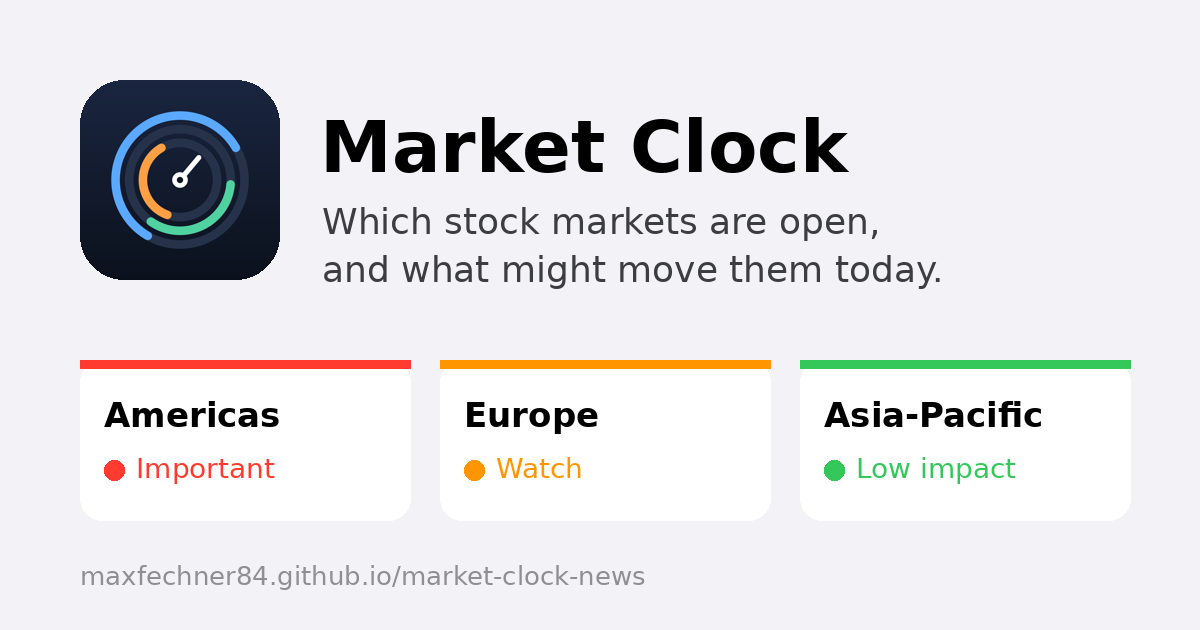
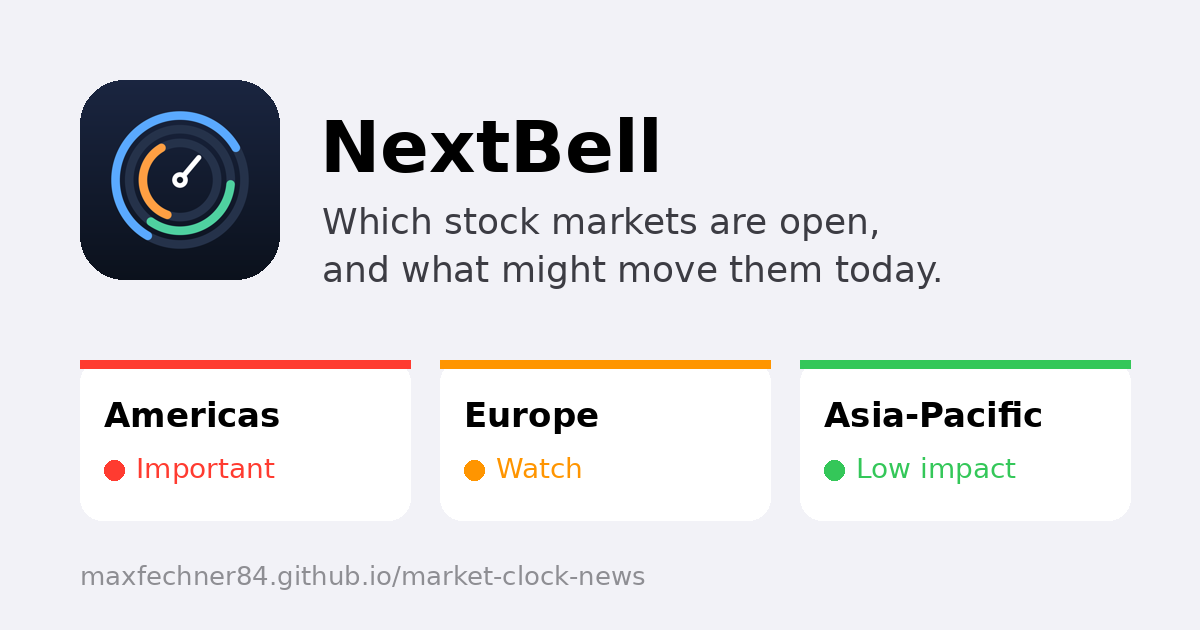
Rename site to NextBell
Claude-Session: https://claude.ai/code/session_01S3Vu1Jfy3DDBFWdjwpbPo2

Changed region(s): [[0.2775, 0.181, 0.7092, 0.2714]]

diff --git a/markets/hkex-fr.html b/markets/hkex-fr.html
@@ -3,7 +3,7 @@
 <head>
 <meta charset="utf-8">
 <meta name="viewport" content="width=device-width,initial-scale=1,viewport-fit=cover">
-<title>HKEX ouverte aujourd&#x27;hui ? Horaires Hong Kong en heure de Paris | Market Clock</title>
+<title>HKEX ouverte aujourd&#x27;hui ? Horaires Hong Kong en heure de Paris | NextBell</title>
 <meta name="description" content="Horaires d&#x27;ouverture de la Bourse de Hong Kong (HKEX) (Hong Kong), en heure locale et dans votre fuseau, statut en direct et jours de fermeture 2026–2027.">
 <meta name="color-scheme" content="light dark">
 <link rel="canonical" href="https://maxfechner84.github.io/market-clock-news/markets/hkex-fr.html">
@@ -165,7 +165,7 @@ p { margin: 0; }
     <table><thead><tr><th>Date</th><th>Motif</th><th>Séance</th></tr></thead><tbody id="rows"><tr data-d="2026-12-24"><td>jeudi 24 décembre 2026</td><td>Christmas Eve</td><td>Clôture à 12:00</td></tr><tr data-d="2026-12-25"><td>vendredi 25 décembre 2026</td><td>Christmas Day</td><td>Fermé</td></tr><tr data-d="2026-12-31"><td>jeudi 31 décembre 2026</td><td>New Year&#x27;s Eve</td><td>Clôture à 12:00</td></tr><tr data-d="2027-01-01"><td>vendredi 1 janvier 2027</td><td>New Year&#x27;s Day</td><td>Fermé</td></tr><tr data-d="2027-02-05"><td>vendredi 5 février 2027</td><td>Lunar New Year&#x27;s Eve</td><td>Clôture à 12:00</td></tr><tr data-d="2027-02-08"><td>lundi 8 février 2027</td><td>Lunar New Year</td><td>Fermé</td></tr><tr data-d="2027-02-09"><td>mardi 9 février 2027</td><td>Lunar New Year</td><td>Fermé</td></tr><tr data-d="2027-03-26"><td>vendredi 26 mars 2027</td><td>Good Friday</td><td>Fermé</td></tr><tr data-d="2027-03-29"><td>lundi 29 mars 2027</td><td>Easter Monday</td><td>Fermé</td></tr><tr data-d="2027-04-05"><td>lundi 5 avril 2027</td><td>Ching Ming Festival</td><td>Fermé</td></tr><tr data-d="2027-05-13"><td>jeudi 13 mai 2027</td><td>Buddha&#x27;s Birthday</td><td>Fermé</td></tr><tr data-d="2027-06-09"><td>mercredi 9 juin 2027</td><td>Tuen Ng Festival</td><td>Fermé</td></tr><tr data-d="2027-07-01"><td>jeudi 1 juillet 2027</td><td>HKSAR Establishment Day</td><td>Fermé</td></tr><tr data-d="2027-09-16"><td>jeudi 16 septembre 2027</td><td>Day after Mid-Autumn</td><td>Fermé</td></tr><tr data-d="2027-10-01"><td>vendredi 1 octobre 2027</td><td>National Day</td><td>Fermé</td></tr><tr data-d="2027-10-08"><td>vendredi 8 octobre 2027</td><td>Chung Yeung Festival</td><td>Fermé</td></tr><tr data-d="2027-12-24"><td>vendredi 24 décembre 2027</td><td>Christmas Eve</td><td>Clôture à 12:00</td></tr><tr data-d="2027-12-27"><td>lundi 27 décembre 2027</td><td>First weekday after Christmas</td><td>Fermé</td></tr><tr data-d="2027-12-31"><td>vendredi 31 décembre 2027</td><td>New Year&#x27;s Eve</td><td>Clôture à 12:00</td></tr></tbody></table>
   </div>
   <div class="card pad"><h3>À quelle heure ouvre la Bourse de Hong Kong (HKEX) ?</h3><p>À 09:30, heure locale (Asia/Hong Kong). L&#x27;heure dans votre fuseau est indiquée ci-dessus.</p><h3>Est-elle ouverte le week-end ?</h3><p>Non, elle est fermée le samedi et le dimanche.</p><h3>Les horaires changent-ils avec l&#x27;heure d&#x27;été ?</h3><p>Les horaires locaux restent les mêmes, mais l&#x27;écart avec votre heure peut changer quand l&#x27;un des deux pays change d&#x27;heure. Cette page en tient compte automatiquement.</p></div>
-  <div class="crumbs"><a href="../">Horloge des marchés en direct →</a></div>
+  <div class="crumbs"><a href="../">NextBell : le minuteur des marchés en direct →</a></div>
 </div>
 <script>
 (function () {

diff --git a/markets/tse-fr.html b/markets/tse-fr.html
@@ -3,7 +3,7 @@
 <head>
 <meta charset="utf-8">
 <meta name="viewport" content="width=device-width,initial-scale=1,viewport-fit=cover">
-<title>TSE ouverte aujourd&#x27;hui ? Horaires Tokyo en heure de Paris | Market Clock</title>
+<title>TSE ouverte aujourd&#x27;hui ? Horaires Tokyo en heure de Paris | NextBell</title>
 <meta name="description" content="Horaires d&#x27;ouverture de la Bourse de Tokyo (TSE) (Tokyo), en heure locale et dans votre fuseau, statut en direct et jours de fermeture 2026–2027.">
 <meta name="color-scheme" content="light dark">
 <link rel="canonical" href="https://maxfechner84.github.io/market-clock-news/markets/tse-fr.html">
@@ -165,7 +165,7 @@ p { margin: 0; }
     <table><thead><tr><th>Date</th><th>Motif</th><th>Séance</th></tr></thead><tbody id="rows"><tr data-d="2026-11-23"><td>lundi 23 novembre 2026</td><td>Labor Thanksgiving Day</td><td>Fermé</td></tr><tr data-d="2026-12-31"><td>jeudi 31 décembre 2026</td><td>Year-end holiday</td><td>Fermé</td></tr><tr data-d="2027-01-01"><td>vendredi 1 janvier 2027</td><td>New Year&#x27;s Day</td><td>Fermé</td></tr><tr data-d="2027-01-11"><td>lundi 11 janvier 2027</td><td>Coming of Age Day</td><td>Fermé</td></tr><tr data-d="2027-02-11"><td>jeudi 11 février 2027</td><td>National Foundation Day</td><td>Fermé</td></tr><tr data-d="2027-02-23"><td>mardi 23 février 2027</td><td>Emperor&#x27;s Birthday</td><td>Fermé</td></tr><tr data-d="2027-03-22"><td>lundi 22 mars 2027</td><td>Vernal Equinox (observed)</td><td>Fermé</td></tr><tr data-d="2027-04-29"><td>jeudi 29 avril 2027</td><td>Showa Day</td><td>Fermé</td></tr><tr data-d="2027-05-03"><td>lundi 3 mai 2027</td><td>Constitution Memorial Day</td><td>Fermé</td></tr><tr data-d="2027-05-04"><td>mardi 4 mai 2027</td><td>Greenery Day</td><td>Fermé</td></tr><tr data-d="2027-05-05"><td>mercredi 5 mai 2027</td><td>Children&#x27;s Day</td><td>Fermé</td></tr><tr data-d="2027-07-19"><td>lundi 19 juillet 2027</td><td>Marine Day</td><td>Fermé</td></tr><tr data-d="2027-08-11"><td>mercredi 11 août 2027</td><td>Mountain Day</td><td>Fermé</td></tr><tr data-d="2027-09-20"><td>lundi 20 septembre 2027</td><td>Respect for the Aged Day</td><td>Fermé</td></tr><tr data-d="2027-09-23"><td>jeudi 23 septembre 2027</td><td>Autumnal Equinox Day</td><td>Fermé</td></tr><tr data-d="2027-10-11"><td>lundi 11 octobre 2027</td><td>Sports Day</td><td>Fermé</td></tr><tr data-d="2027-11-03"><td>mercredi 3 novembre 2027</td><td>Culture Day</td><td>Fermé</td></tr><tr data-d="2027-11-23"><td>mardi 23 novembre 2027</td><td>Labor Thanksgiving Day</td><td>Fermé</td></tr><tr data-d="2027-12-31"><td>vendredi 31 décembre 2027</td><td>Year-end holiday</td><td>Fermé</td></tr><tr data-d="2028-01-03"><td>lundi 3 janvier 2028</td><td>New Year holiday</td><td>Fermé</td></tr></tbody></table>
   </div>
   <div class="card pad"><h3>À quelle heure ouvre la Bourse de Tokyo (TSE) ?</h3><p>À 09:00, heure locale (Asia/Tokyo). L&#x27;heure dans votre fuseau est indiquée ci-dessus.</p><h3>Est-elle ouverte le week-end ?</h3><p>Non, elle est fermée le samedi et le dimanche.</p><h3>Les horaires changent-ils avec l&#x27;heure d&#x27;été ?</h3><p>Les horaires locaux restent les mêmes, mais l&#x27;écart avec votre heure peut changer quand l&#x27;un des deux pays change d&#x27;heure. Cette page en tient compte automatiquement.</p></div>
-  <div class="crumbs"><a href="../">Horloge des marchés en direct →</a></div>
+  <div class="crumbs"><a href="../">NextBell : le minuteur des marchés en direct →</a></div>
 </div>
 <script>
 (function () {

diff --git a/markets/tse.html b/markets/tse.html
@@ -3,7 +3,7 @@
 <head>
 <meta charset="utf-8">
 <meta name="viewport" content="width=device-width,initial-scale=1,viewport-fit=cover">
-<title>Is the TSE open today? Tokyo hours &amp; holidays | Market Clock</title>
+<title>Is the TSE open today? Tokyo hours &amp; holidays | NextBell</title>
 <meta name="description" content="Tokyo Stock Exchange (Tokyo) trading hours in local time and your time zone, live open/closed status, and 2026–2027 holidays and early closes.">
 <meta name="color-scheme" content="light dark">
 <link rel="canonical" href="https://maxfechner84.github.io/market-clock-news/markets/tse.html">
@@ -165,7 +165,7 @@ p { margin: 0; }
     <table><thead><tr><th>Date</th><th>Holiday</th><th>Session</th></tr></thead><tbody id="rows"><tr data-d="2026-11-23"><td>Monday 23 November 2026</td><td>Labor Thanksgiving Day</td><td>Closed</td></tr><tr data-d="2026-12-31"><td>Thursday 31 December 2026</td><td>Year-end holiday</td><td>Closed</td></tr><tr data-d="2027-01-01"><td>Friday 1 January 2027</td><td>New Year&#x27;s Day</td><td>Closed</td></tr><tr data-d="2027-01-11"><td>Monday 11 January 2027</td><td>Coming of Age Day</td><td>Closed</td></tr><tr data-d="2027-02-11"><td>Thursday 11 February 2027</td><td>National Foundation Day</td><td>Closed</td></tr><tr data-d="2027-02-23"><td>Tuesday 23 February 2027</td><td>Emperor&#x27;s Birthday</td><td>Closed</td></tr><tr data-d="2027-03-22"><td>Monday 22 March 2027</td><td>Vernal Equinox (observed)</td><td>Closed</td></tr><tr data-d="2027-04-29"><td>Thursday 29 April 2027</td><td>Showa Day</td><td>Closed</td></tr><tr data-d="2027-05-03"><td>Monday 3 May 2027</td><td>Constitution Memorial Day</td><td>Closed</td></tr><tr data-d="2027-05-04"><td>Tuesday 4 May 2027</td><td>Greenery Day</td><td>Closed</td></tr><tr data-d="2027-05-05"><td>Wednesday 5 May 2027</td><td>Children&#x27;s Day</td><td>Closed</td></tr><tr data-d="2027-07-19"><td>Monday 19 July 2027</td><td>Marine Day</td><td>Closed</td></tr><tr data-d="2027-08-11"><td>Wednesday 11 August 2027</td><td>Mountain Day</td><td>Closed</td></tr><tr data-d="2027-09-20"><td>Monday 20 September 2027</td><td>Respect for the Aged Day</td><td>Closed</td></tr><tr data-d="2027-09-23"><td>Thursday 23 September 2027</td><td>Autumnal Equinox Day</td><td>Closed</td></tr><tr data-d="2027-10-11"><td>Monday 11 October 2027</td><td>Sports Day</td><td>Closed</td></tr><tr data-d="2027-11-03"><td>Wednesday 3 November 2027</td><td>Culture Day</td><td>Closed</td></tr><tr data-d="2027-11-23"><td>Tuesday 23 November 2027</td><td>Labor Thanksgiving Day</td><td>Closed</td></tr><tr data-d="2027-12-31"><td>Friday 31 December 2027</td><td>Year-end holiday</td><td>Closed</td></tr><tr data-d="2028-01-03"><td>Monday 3 January 2028</td><td>New Year holiday</td><td>Closed</td></tr></tbody></table>
   </div>
   <div class="card pad"><h3>What time does the TSE open?</h3><p>At 09:00 local time (Asia/Tokyo). The time in your own time zone is shown above.</p><h3>Is it open at weekends?</h3><p>No, it is closed on Saturdays and Sundays.</p><h3>Do the hours change with daylight saving time?</h3><p>The local hours stay the same, but the gap to your time can change when either country changes its clocks. This page adjusts automatically.</p></div>
-  <div class="crumbs"><a href="../">Live market clock →</a></div>
+  <div class="crumbs"><a href="../">NextBell: live market timer →</a></div>
 </div>
 <script>
 (function () {

diff --git a/index.html b/index.html
@@ -3,7 +3,7 @@
 <head>
 <meta charset="utf-8">
 <meta name="viewport" content="width=device-width,initial-scale=1,viewport-fit=cover">
-<title>Market Clock – world stock markets & what might move them today</title>
+<title>NextBell – world market timer & what might move markets today</title>
 <meta name="description" content="Live open/close countdowns for 11 world stock exchanges, with a twice-daily colour-coded summary of market-moving news by region. Free, in English and French.">
 <meta name="color-scheme" content="light dark">
 <meta name="theme-color" content="#f2f2f7" media="(prefers-color-scheme: light)">
@@ -14,9 +14,9 @@
 <link rel="icon" href="icon-192.png">
 <link rel="apple-touch-icon" href="icon.png">
 <meta name="apple-mobile-web-app-capable" content="yes">
-<meta name="apple-mobile-web-app-title" content="Market Clock">
+<meta name="apple-mobile-web-app-title" content="NextBell">
 <meta name="apple-mobile-web-app-status-bar-style" content="default">
-<meta property="og:title" content="Market Clock – which stock markets are open, and what might move them today">
+<meta property="og:title" content="NextBell – which stock markets are open, and what might move them today">
 <meta property="og:description" content="Live countdowns for 11 world exchanges plus a colour-coded summary of today's market-moving news.">
 <meta property="og:image" content="https://maxfechner84.github.io/market-clock-news/og.png">
 <meta property="og:url" content="https://maxfechner84.github.io/market-clock-news/">
@@ -147,7 +147,7 @@ h1 { white-space: nowrap; }
 <body>
 <div class="wrap">
   <div class="top">
-    <h1>Market Clock</h1>
+    <h1>NextBell</h1>
     <div class="tools">
       <span class="now num" id="now">--:--:--</span>
       <div class="seg lang" role="group" aria-label="Language">
@@ -604,7 +604,7 @@ h1 { white-space: nowrap; }
     var g = c.getContext("2d"), F = '-apple-system, BlinkMacSystemFont, "Helvetica Neue", Arial, sans-serif';
     var col = { green: "#34c759", orange: "#ff9500", red: "#ff3b30" };
     g.fillStyle = "#f2f2f7"; g.fillRect(0, 0, W, H);
-    g.fillStyle = "#000"; g.font = "700 52px " + F; g.fillText("Market Clock", 48, 92);
+    g.fillStyle = "#000"; g.font = "700 52px " + F; g.fillText("NextBell", 48, 92);
     g.fillStyle = "rgba(60,60,67,.6)"; g.font = "500 26px " + F;
     g.fillText(t("shareTitle") + " · " + new Date().toLocaleDateString(lang === "fr" ? "fr-FR" : "en-GB", { weekday: "long", day: "numeric", month: "long" }), 48, 134);
     var cw = (W - 48 * 2 - 24 * 2) / 3;
@@ -626,7 +626,7 @@ h1 { white-space: nowrap; }
   document.getElementById("shareBtn").addEventListener("click", function () {
     makeImage().toBlob(function (blob) {
       var file = new File([blob], "market-clock-" + new Date().toISOString().slice(0, 10) + ".png", { type: "image/png" });
-      var data = { files: [file], title: "Market Clock", text: t("shareTitle") + " – https://maxfechner84.github.io/market-clock-news/" };
+      var data = { files: [file], title: "NextBell", text: t("shareTitle") + " – https://maxfechner84.github.io/market-clock-news/" };
       if (navigator.canShare && navigator.canShare(data)) { navigator.share(data).catch(function () {}); return; }
       var a = document.createElement("a"); a.href = URL.createObjectURL(blob); a.download = file.name; document.body.appendChild(a); a.click(); a.remove();
     }, "image/png");

diff --git a/markets/hkex.html b/markets/hkex.html
@@ -3,7 +3,7 @@
 <head>
 <meta charset="utf-8">
 <meta name="viewport" content="width=device-width,initial-scale=1,viewport-fit=cover">
-<title>Is the HKEX open today? Hong Kong hours &amp; holidays | Market Clock</title>
+<title>Is the HKEX open today? Hong Kong hours &amp; holidays | NextBell</title>
 <meta name="description" content="Hong Kong Stock Exchange (Hong Kong) trading hours in local time and your time zone, live open/closed status, and 2026–2027 holidays and early closes.">
 <meta name="color-scheme" content="light dark">
 <link rel="canonical" href="https://maxfechner84.github.io/market-clock-news/markets/hkex.html">
@@ -165,7 +165,7 @@ p { margin: 0; }
     <table><thead><tr><th>Date</th><th>Holiday</th><th>Session</th></tr></thead><tbody id="rows"><tr data-d="2026-12-24"><td>Thursday 24 December 2026</td><td>Christmas Eve</td><td>Closes at 12:00</td></tr><tr data-d="2026-12-25"><td>Friday 25 December 2026</td><td>Christmas Day</td><td>Closed</td></tr><tr data-d="2026-12-31"><td>Thursday 31 December 2026</td><td>New Year&#x27;s Eve</td><td>Closes at 12:00</td></tr><tr data-d="2027-01-01"><td>Friday 1 January 2027</td><td>New Year&#x27;s Day</td><td>Closed</td></tr><tr data-d="2027-02-05"><td>Friday 5 February 2027</td><td>Lunar New Year&#x27;s Eve</td><td>Closes at 12:00</td></tr><tr data-d="2027-02-08"><td>Monday 8 February 2027</td><td>Lunar New Year</td><td>Closed</td></tr><tr data-d="2027-02-09"><td>Tuesday 9 February 2027</td><td>Lunar New Year</td><td>Closed</td></tr><tr data-d="2027-03-26"><td>Friday 26 March 2027</td><td>Good Friday</td><td>Closed</td></tr><tr data-d="2027-03-29"><td>Monday 29 March 2027</td><td>Easter Monday</td><td>Closed</td></tr><tr data-d="2027-04-05"><td>Monday 5 April 2027</td><td>Ching Ming Festival</td><td>Closed</td></tr><tr data-d="2027-05-13"><td>Thursday 13 May 2027</td><td>Buddha&#x27;s Birthday</td><td>Closed</td></tr><tr data-d="2027-06-09"><td>Wednesday 9 June 2027</td><td>Tuen Ng Festival</td><td>Closed</td></tr><tr data-d="2027-07-01"><td>Thursday 1 July 2027</td><td>HKSAR Establishment Day</td><td>Closed</td></tr><tr data-d="2027-09-16"><td>Thursday 16 September 2027</td><td>Day after Mid-Autumn</td><td>Closed</td></tr><tr data-d="2027-10-01"><td>Friday 1 October 2027</td><td>National Day</td><td>Closed</td></tr><tr data-d="2027-10-08"><td>Friday 8 October 2027</td><td>Chung Yeung Festival</td><td>Closed</td></tr><tr data-d="2027-12-24"><td>Friday 24 December 2027</td><td>Christmas Eve</td><td>Closes at 12:00</td></tr><tr data-d="2027-12-27"><td>Monday 27 December 2027</td><td>First weekday after Christmas</td><td>Closed</td></tr><tr data-d="2027-12-31"><td>Friday 31 December 2027</td><td>New Year&#x27;s Eve</td><td>Closes at 12:00</td></tr></tbody></table>
   </div>
   <div class="card pad"><h3>What time does the HKEX open?</h3><p>At 09:30 local time (Asia/Hong Kong). The time in your own time zone is shown above.</p><h3>Is it open at weekends?</h3><p>No, it is closed on Saturdays and Sundays.</p><h3>Do the hours change with daylight saving time?</h3><p>The local hours stay the same, but the gap to your time can change when either country changes its clocks. This page adjusts automatically.</p></div>
-  <div class="crumbs"><a href="../">Live market clock →</a></div>
+  <div class="crumbs"><a href="../">NextBell: live market timer →</a></div>
 </div>
 <script>
 (function () {

diff --git a/markets/sse-fr.html b/markets/sse-fr.html
@@ -3,7 +3,7 @@
 <head>
 <meta charset="utf-8">
 <meta name="viewport" content="width=device-width,initial-scale=1,viewport-fit=cover">
-<title>SSE ouverte aujourd&#x27;hui ? Horaires Shanghai en heure de Paris | Market Clock</title>
+<title>SSE ouverte aujourd&#x27;hui ? Horaires Shanghai en heure de Paris | NextBell</title>
 <meta name="description" content="Horaires d&#x27;ouverture de la Bourse de Shanghai (SSE) (Shanghai), en heure locale et dans votre fuseau, statut en direct et jours de fermeture 2026–2027.">
 <meta name="color-scheme" content="light dark">
 <link rel="canonical" href="https://maxfechner84.github.io/market-clock-news/markets/sse-fr.html">
@@ -165,7 +165,7 @@ p { margin: 0; }
     <table><thead><tr><th>Date</th><th>Motif</th><th>Séance</th></tr></thead><tbody id="rows"><tr data-d="2027-01-01"><td>vendredi 1 janvier 2027</td><td>New Year&#x27;s Day</td><td>Fermé</td></tr><tr data-d="2027-02-05"><td>vendredi 5 février 2027</td><td>Spring Festival</td><td>Fermé</td></tr><tr data-d="2027-02-08"><td>lundi 8 février 2027</td><td>Spring Festival</td><td>Fermé</td></tr><tr data-d="2027-02-09"><td>mardi 9 février 2027</td><td>Spring Festival</td><td>Fermé</td></tr><tr data-d="2027-02-10"><td>mercredi 10 février 2027</td><td>Spring Festival</td><td>Fermé</td></tr><tr data-d="2027-02-11"><td>jeudi 11 février 2027</td><td>Spring Festival</td><td>Fermé</td></tr><tr data-d="2027-02-12"><td>vendredi 12 février 2027</td><td>Spring Festival</td><td>Fermé</td></tr><tr data-d="2027-04-05"><td>lundi 5 avril 2027</td><td>Qingming Festival</td><td>Fermé</td></tr><tr data-d="2027-05-03"><td>lundi 3 mai 2027</td><td>Labour Day</td><td>Fermé</td></tr><tr data-d="2027-05-04"><td>mardi 4 mai 2027</td><td>Labour Day</td><td>Fermé</td></tr><tr data-d="2027-05-05"><td>mercredi 5 mai 2027</td><td>Labour Day</td><td>Fermé</td></tr><tr data-d="2027-06-09"><td>mercredi 9 juin 2027</td><td>Dragon Boat Festival</td><td>Fermé</td></tr><tr data-d="2027-09-15"><td>mercredi 15 septembre 2027</td><td>Mid-Autumn Festival</td><td>Fermé</td></tr><tr data-d="2027-10-01"><td>vendredi 1 octobre 2027</td><td>National Day</td><td>Fermé</td></tr><tr data-d="2027-10-04"><td>lundi 4 octobre 2027</td><td>National Day</td><td>Fermé</td></tr><tr data-d="2027-10-05"><td>mardi 5 octobre 2027</td><td>National Day</td><td>Fermé</td></tr><tr data-d="2027-10-06"><td>mercredi 6 octobre 2027</td><td>National Day</td><td>Fermé</td></tr><tr data-d="2027-10-07"><td>jeudi 7 octobre 2027</td><td>National Day</td><td>Fermé</td></tr></tbody></table>
   </div>
   <div class="card pad"><h3>À quelle heure ouvre la Bourse de Shanghai (SSE) ?</h3><p>À 09:30, heure locale (Asia/Shanghai). L&#x27;heure dans votre fuseau est indiquée ci-dessus.</p><h3>Est-elle ouverte le week-end ?</h3><p>Non, elle est fermée le samedi et le dimanche.</p><h3>Les horaires changent-ils avec l&#x27;heure d&#x27;été ?</h3><p>Les horaires locaux restent les mêmes, mais l&#x27;écart avec votre heure peut changer quand l&#x27;un des deux pays change d&#x27;heure. Cette page en tient compte automatiquement.</p></div>
-  <div class="crumbs"><a href="../">Horloge des marchés en direct →</a></div>
+  <div class="crumbs"><a href="../">NextBell : le minuteur des marchés en direct →</a></div>
 </div>
 <script>
 (function () {

diff --git a/markets/sse.html b/markets/sse.html
@@ -3,7 +3,7 @@
 <head>
 <meta charset="utf-8">
 <meta name="viewport" content="width=device-width,initial-scale=1,viewport-fit=cover">
-<title>Is the SSE open today? Shanghai hours &amp; holidays | Market Clock</title>
+<title>Is the SSE open today? Shanghai hours &amp; holidays | NextBell</title>
 <meta name="description" content="Shanghai Stock Exchange (Shanghai) trading hours in local time and your time zone, live open/closed status, and 2026–2027 holidays and early closes.">
 <meta name="color-scheme" content="light dark">
 <link rel="canonical" href="https://maxfechner84.github.io/market-clock-news/markets/sse.html">
@@ -165,7 +165,7 @@ p { margin: 0; }
     <table><thead><tr><th>Date</th><th>Holiday</th><th>Session</th></tr></thead><tbody id="rows"><tr data-d="2027-01-01"><td>Friday 1 January 2027</td><td>New Year&#x27;s Day</td><td>Closed</td></tr><tr data-d="2027-02-05"><td>Friday 5 February 2027</td><td>Spring Festival</td><td>Closed</td></tr><tr data-d="2027-02-08"><td>Monday 8 February 2027</td><td>Spring Festival</td><td>Closed</td></tr><tr data-d="2027-02-09"><td>Tuesday 9 February 2027</td><td>Spring Festival</td><td>Closed</td></tr><tr data-d="2027-02-10"><td>Wednesday 10 February 2027</td><td>Spring Festival</td><td>Closed</td></tr><tr data-d="2027-02-11"><td>Thursday 11 February 2027</td><td>Spring Festival</td><td>Closed</td></tr><tr data-d="2027-02-12"><td>Friday 12 February 2027</td><td>Spring Festival</td><td>Closed</td></tr><tr data-d="2027-04-05"><td>Monday 5 April 2027</td><td>Qingming Festival</td><td>Closed</td></tr><tr data-d="2027-05-03"><td>Monday 3 May 2027</td><td>Labour Day</td><td>Closed</td></tr><tr data-d="2027-05-04"><td>Tuesday 4 May 2027</td><td>Labour Day</td><td>Closed</td></tr><tr data-d="2027-05-05"><td>Wednesday 5 May 2027</td><td>Labour Day</td><td>Closed</td></tr><tr data-d="2027-06-09"><td>Wednesday 9 June 2027</td><td>Dragon Boat Festival</td><td>Closed</td></tr><tr data-d="2027-09-15"><td>Wednesday 15 September 2027</td><td>Mid-Autumn Festival</td><td>Closed</td></tr><tr data-d="2027-10-01"><td>Friday 1 October 2027</td><td>National Day</td><td>Closed</td></tr><tr data-d="2027-10-04"><td>Monday 4 October 2027</td><td>National Day</td><td>Closed</td></tr><tr data-d="2027-10-05"><td>Tuesday 5 October 2027</td><td>National Day</td><td>Closed</td></tr><tr data-d="2027-10-06"><td>Wednesday 6 October 2027</td><td>National Day</td><td>Closed</td></tr><tr data-d="2027-10-07"><td>Thursday 7 October 2027</td><td>National Day</td><td>Closed</td></tr></tbody></table>
   </div>
   <div class="card pad"><h3>What time does the SSE open?</h3><p>At 09:30 local time (Asia/Shanghai). The time in your own time zone is shown above.</p><h3>Is it open at weekends?</h3><p>No, it is closed on Saturdays and Sundays.</p><h3>Do the hours change with daylight saving time?</h3><p>The local hours stay the same, but the gap to your time can change when either country changes its clocks. This page adjusts automatically.</p></div>
-  <div class="crumbs"><a href="../">Live market clock →</a></div>
+  <div class="crumbs"><a href="../">NextBell: live market timer →</a></div>
 </div>
 <script>
 (function () {

diff --git a/markets/nyse-fr.html b/markets/nyse-fr.html
@@ -3,7 +3,7 @@
 <head>
 <meta charset="utf-8">
 <meta name="viewport" content="width=device-width,initial-scale=1,viewport-fit=cover">
-<title>NYSE ouverte aujourd&#x27;hui ? Horaires New York en heure de Paris | Market Clock</title>
+<title>NYSE ouverte aujourd&#x27;hui ? Horaires New York en heure de Paris | NextBell</title>
 <meta name="description" content="Horaires d&#x27;ouverture de la Bourse de New York (NYSE) (New York), en heure locale et dans votre fuseau, statut en direct et jours de fermeture 2026–2027.">
 <meta name="color-scheme" content="light dark">
 <link rel="canonical" href="https://maxfechner84.github.io/market-clock-news/markets/nyse-fr.html">
@@ -165,7 +165,7 @@ p { margin: 0; }
     <table><thead><tr><th>Date</th><th>Motif</th><th>Séance</th></tr></thead><tbody id="rows"><tr data-d="2026-11-26"><td>jeudi 26 novembre 2026</td><td>Thanksgiving</td><td>Fermé</td></tr><tr data-d="2026-11-27"><td>vendredi 27 novembre 2026</td><td>Day after Thanksgiving</td><td>Clôture à 13:00</td></tr><tr data-d="2026-12-24"><td>jeudi 24 décembre 2026</td><td>Christmas Eve</td><td>Clôture à 13:00</td></tr><tr data-d="2026-12-25"><td>vendredi 25 décembre 2026</td><td>Christmas Day</td><td>Fermé</td></tr><tr data-d="2027-01-01"><td>vendredi 1 janvier 2027</td><td>New Year&#x27;s Day</td><td>Fermé</td></tr><tr data-d="2027-01-18"><td>lundi 18 janvier 2027</td><td>Martin Luther King Jr. Day</td><td>Fermé</td></tr><tr data-d="2027-02-15"><td>lundi 15 février 2027</td><td>Washington&#x27;s Birthday</td><td>Fermé</td></tr><tr data-d="2027-03-26"><td>vendredi 26 mars 2027</td><td>Good Friday</td><td>Fermé</td></tr><tr data-d="2027-05-31"><td>lundi 31 mai 2027</td><td>Memorial Day</td><td>Fermé</td></tr><tr data-d="2027-06-18"><td>vendredi 18 juin 2027</td><td>Juneteenth (observed)</td><td>Fermé</td></tr><tr data-d="2027-07-05"><td>lundi 5 juillet 2027</td><td>Independence Day (observed)</td><td>Fermé</td></tr><tr data-d="2027-09-06"><td>lundi 6 septembre 2027</td><td>Labor Day</td><td>Fermé</td></tr><tr data-d="2027-11-25"><td>jeudi 25 novembre 2027</td><td>Thanksgiving</td><td>Fermé</td></tr><tr data-d="2027-11-26"><td>vendredi 26 novembre 2027</td><td>Day after Thanksgiving</td><td>Clôture à 13:00</td></tr><tr data-d="2027-12-24"><td>vendredi 24 décembre 2027</td><td>Christmas Day (observed)</td><td>Fermé</td></tr></tbody></table>
   </div>
   <div class="card pad"><h3>À quelle heure ouvre la Bourse de New York (NYSE) ?</h3><p>À 09:30, heure locale (America/New York). L&#x27;heure dans votre fuseau est indiquée ci-dessus.</p><h3>Est-elle ouverte le week-end ?</h3><p>Non, elle est fermée le samedi et le dimanche.</p><h3>Les horaires changent-ils avec l&#x27;heure d&#x27;été ?</h3><p>Les horaires locaux restent les mêmes, mais l&#x27;écart avec votre heure peut changer quand l&#x27;un des deux pays change d&#x27;heure. Cette page en tient compte automatiquement.</p></div>
-  <div class="crumbs"><a href="../">Horloge des marchés en direct →</a></div>
+  <div class="crumbs"><a href="../">NextBell : le minuteur des marchés en direct →</a></div>
 </div>
 <script>
 (function () {

diff --git a/markets/lse-fr.html b/markets/lse-fr.html
@@ -3,7 +3,7 @@
 <head>
 <meta charset="utf-8">
 <meta name="viewport" content="width=device-width,initial-scale=1,viewport-fit=cover">
-<title>LSE ouverte aujourd&#x27;hui ? Horaires Londres en heure de Paris | Market Clock</title>
+<title>LSE ouverte aujourd&#x27;hui ? Horaires Londres en heure de Paris | NextBell</title>
 <meta name="description" content="Horaires d&#x27;ouverture de la Bourse de Londres (LSE) (Londres), en heure locale et dans votre fuseau, statut en direct et jours de fermeture 2026–2027.">
 <meta name="color-scheme" content="light dark">
 <link rel="canonical" href="https://maxfechner84.github.io/market-clock-news/markets/lse-fr.html">
@@ -165,7 +165,7 @@ p { margin: 0; }
     <table><thead><tr><th>Date</th><th>Motif</th><th>Séance</th></tr></thead><tbody id="rows"><tr data-d="2026-12-24"><td>jeudi 24 décembre 2026</td><td>Christmas Eve</td><td>Clôture à 12:30</td></tr><tr data-d="2026-12-25"><td>vendredi 25 décembre 2026</td><td>Christmas Day</td><td>Fermé</td></tr><tr data-d="2026-12-28"><td>lundi 28 décembre 2026</td><td>Boxing Day (substitute)</td><td>Fermé</td></tr><tr data-d="2026-12-31"><td>jeudi 31 décembre 2026</td><td>New Year&#x27;s Eve</td><td>Clôture à 12:30</td></tr><tr data-d="2027-01-01"><td>vendredi 1 janvier 2027</td><td>New Year&#x27;s Day</td><td>Fermé</td></tr><tr data-d="2027-03-26"><td>vendredi 26 mars 2027</td><td>Good Friday</td><td>Fermé</td></tr><tr data-d="2027-03-29"><td>lundi 29 mars 2027</td><td>Easter Monday</td><td>Fermé</td></tr><tr data-d="2027-05-03"><td>lundi 3 mai 2027</td><td>Early May Bank Holiday</td><td>Fermé</td></tr><tr data-d="2027-05-31"><td>lundi 31 mai 2027</td><td>Spring Bank Holiday</td><td>Fermé</td></tr><tr data-d="2027-08-30"><td>lundi 30 août 2027</td><td>Summer Bank Holiday</td><td>Fermé</td></tr><tr data-d="2027-12-24"><td>vendredi 24 décembre 2027</td><td>Christmas Eve</td><td>Clôture à 12:30</td></tr><tr data-d="2027-12-27"><td>lundi 27 décembre 2027</td><td>Christmas Day (substitute)</td><td>Fermé</td></tr><tr data-d="2027-12-28"><td>mardi 28 décembre 2027</td><td>Boxing Day (substitute)</td><td>Fermé</td></tr><tr data-d="2027-12-31"><td>vendredi 31 décembre 2027</td><td>New Year&#x27;s Eve</td><td>Clôture à 12:30</td></tr></tbody></table>
   </div>
   <div class="card pad"><h3>À quelle heure ouvre la Bourse de Londres (LSE) ?</h3><p>À 08:00, heure locale (Europe/London). L&#x27;heure dans votre fuseau est indiquée ci-dessus.</p><h3>Est-elle ouverte le week-end ?</h3><p>Non, elle est fermée le samedi et le dimanche.</p><h3>Les horaires changent-ils avec l&#x27;heure d&#x27;été ?</h3><p>Les horaires locaux restent les mêmes, mais l&#x27;écart avec votre heure peut changer quand l&#x27;un des deux pays change d&#x27;heure. Cette page en tient compte automatiquement.</p></div>
-  <div class="crumbs"><a href="../">Horloge des marchés en direct →</a></div>
+  <div class="crumbs"><a href="../">NextBell : le minuteur des marchés en direct →</a></div>
 </div>
 <script>
 (function () {

diff --git a/markets/sgx-fr.html b/markets/sgx-fr.html
@@ -3,7 +3,7 @@
 <head>
 <meta charset="utf-8">
 <meta name="viewport" content="width=device-width,initial-scale=1,viewport-fit=cover">
-<title>SGX ouverte aujourd&#x27;hui ? Horaires Singapour en heure de Paris | Market Clock</title>
+<title>SGX ouverte aujourd&#x27;hui ? Horaires Singapour en heure de Paris | NextBell</title>
 <meta name="description" content="Horaires d&#x27;ouverture de la Bourse de Singapour (SGX) (Singapour), en heure locale et dans votre fuseau, statut en direct et jours de fermeture 2026–2027.">
 <meta name="color-scheme" content="light dark">
 <link rel="canonical" href="https://maxfechner84.github.io/market-clock-news/markets/sgx-fr.html">
@@ -165,7 +165,7 @@ p { margin: 0; }
     <table><thead><tr><th>Date</th><th>Motif</th><th>Séance</th></tr></thead><tbody id="rows"><tr data-d="2026-12-24"><td>jeudi 24 décembre 2026</td><td>Christmas Eve</td><td>Clôture à 12:00</td></tr><tr data-d="2026-12-25"><td>vendredi 25 décembre 2026</td><td>Christmas Day</td><td>Fermé</td></tr><tr data-d="2026-12-31"><td>jeudi 31 décembre 2026</td><td>New Year&#x27;s Eve</td><td>Clôture à 12:00</td></tr><tr data-d="2027-01-01"><td>vendredi 1 janvier 2027</td><td>New Year&#x27;s Day</td><td>Fermé</td></tr><tr data-d="2027-02-05"><td>vendredi 5 février 2027</td><td>Chinese New Year&#x27;s Eve</td><td>Clôture à 12:00</td></tr><tr data-d="2027-02-08"><td>lundi 8 février 2027</td><td>Chinese New Year</td><td>Fermé</td></tr><tr data-d="2027-03-10"><td>mercredi 10 mars 2027</td><td>Hari Raya Puasa</td><td>Fermé</td></tr><tr data-d="2027-03-26"><td>vendredi 26 mars 2027</td><td>Good Friday</td><td>Fermé</td></tr><tr data-d="2027-05-17"><td>lundi 17 mai 2027</td><td>Hari Raya Haji</td><td>Fermé</td></tr><tr data-d="2027-05-20"><td>jeudi 20 mai 2027</td><td>Vesak Day</td><td>Fermé</td></tr><tr data-d="2027-08-09"><td>lundi 9 août 2027</td><td>National Day</td><td>Fermé</td></tr><tr data-d="2027-10-28"><td>jeudi 28 octobre 2027</td><td>Deepavali</td><td>Fermé</td></tr><tr data-d="2027-12-24"><td>vendredi 24 décembre 2027</td><td>Christmas Eve</td><td>Clôture à 12:00</td></tr><tr data-d="2027-12-31"><td>vendredi 31 décembre 2027</td><td>New Year&#x27;s Eve</td><td>Clôture à 12:00</td></tr></tbody></table>
   </div>
   <div class="card pad"><h3>À quelle heure ouvre la Bourse de Singapour (SGX) ?</h3><p>À 09:00, heure locale (Asia/Singapore). L&#x27;heure dans votre fuseau est indiquée ci-dessus.</p><h3>Est-elle ouverte le week-end ?</h3><p>Non, elle est fermée le samedi et le dimanche.</p><h3>Les horaires changent-ils avec l&#x27;heure d&#x27;été ?</h3><p>Les horaires locaux restent les mêmes, mais l&#x27;écart avec votre heure peut changer quand l&#x27;un des deux pays change d&#x27;heure. Cette page en tient compte automatiquement.</p></div>
-  <div class="crumbs"><a href="../">Horloge des marchés en direct →</a></div>
+  <div class="crumbs"><a href="../">NextBell : le minuteur des marchés en direct →</a></div>
 </div>
 <script>
 (function () {

diff --git a/markets/tsx-fr.html b/markets/tsx-fr.html
@@ -3,7 +3,7 @@
 <head>
 <meta charset="utf-8">
 <meta name="viewport" content="width=device-width,initial-scale=1,viewport-fit=cover">
-<title>TSX ouverte aujourd&#x27;hui ? Horaires Toronto en heure de Paris | Market Clock</title>
+<title>TSX ouverte aujourd&#x27;hui ? Horaires Toronto en heure de Paris | NextBell</title>
 <meta name="description" content="Horaires d&#x27;ouverture de la Bourse de Toronto (TSX) (Toronto), en heure locale et dans votre fuseau, statut en direct et jours de fermeture 2026–2027.">
 <meta name="color-scheme" content="light dark">
 <link rel="canonical" href="https://maxfechner84.github.io/market-clock-news/markets/tsx-fr.html">
@@ -165,7 +165,7 @@ p { margin: 0; }
     <table><thead><tr><th>Date</th><th>Motif</th><th>Séance</th></tr></thead><tbody id="rows"><tr data-d="2026-12-24"><td>jeudi 24 décembre 2026</td><td>Christmas Eve</td><td>Clôture à 13:00</td></tr><tr data-d="2026-12-25"><td>vendredi 25 décembre 2026</td><td>Christmas Day</td><td>Fermé</td></tr><tr data-d="2026-12-28"><td>lundi 28 décembre 2026</td><td>Boxing Day (observed)</td><td>Fermé</td></tr><tr data-d="2027-01-01"><td>vendredi 1 janvier 2027</td><td>New Year&#x27;s Day</td><td>Fermé</td></tr><tr data-d="2027-02-15"><td>lundi 15 février 2027</td><td>Family Day</td><td>Fermé</td></tr><tr data-d="2027-03-26"><td>vendredi 26 mars 2027</td><td>Good Friday</td><td>Fermé</td></tr><tr data-d="2027-05-24"><td>lundi 24 mai 2027</td><td>Victoria Day</td><td>Fermé</td></tr><tr data-d="2027-07-01"><td>jeudi 1 juillet 2027</td><td>Canada Day</td><td>Fermé</td></tr><tr data-d="2027-08-02"><td>lundi 2 août 2027</td><td>Civic Holiday</td><td>Fermé</td></tr><tr data-d="2027-09-06"><td>lundi 6 septembre 2027</td><td>Labour Day</td><td>Fermé</td></tr><tr data-d="2027-10-11"><td>lundi 11 octobre 2027</td><td>Thanksgiving</td><td>Fermé</td></tr><tr data-d="2027-12-24"><td>vendredi 24 décembre 2027</td><td>Christmas Eve</td><td>Clôture à 13:00</td></tr><tr data-d="2027-12-27"><td>lundi 27 décembre 2027</td><td>Christmas Day (observed)</td><td>Fermé</td></tr><tr data-d="2027-12-28"><td>mardi 28 décembre 2027</td><td>Boxing Day (observed)</td><td>Fermé</td></tr></tbody></table>
   </div>
   <div class="card pad"><h3>À quelle heure ouvre la Bourse de Toronto (TSX) ?</h3><p>À 09:30, heure locale (America/Toronto). L&#x27;heure dans votre fuseau est indiquée ci-dessus.</p><h3>Est-elle ouverte le week-end ?</h3><p>Non, elle est fermée le samedi et le dimanche.</p><h3>Les horaires changent-ils avec l&#x27;heure d&#x27;été ?</h3><p>Les horaires locaux restent les mêmes, mais l&#x27;écart avec votre heure peut changer quand l&#x27;un des deux pays change d&#x27;heure. Cette page en tient compte automatiquement.</p></div>
-  <div class="crumbs"><a href="../">Horloge des marchés en direct →</a></div>
+  <div class="crumbs"><a href="../">NextBell : le minuteur des marchés en direct →</a></div>
 </div>
 <script>
 (function () {

diff --git a/markets/nyse.html b/markets/nyse.html
@@ -3,7 +3,7 @@
 <head>
 <meta charset="utf-8">
 <meta name="viewport" content="width=device-width,initial-scale=1,viewport-fit=cover">
-<title>Is the NYSE open today? New York hours &amp; holidays | Market Clock</title>
+<title>Is the NYSE open today? New York hours &amp; holidays | NextBell</title>
 <meta name="description" content="New York Stock Exchange (New York) trading hours in local time and your time zone, live open/closed status, and 2026–2027 holidays and early closes.">
 <meta name="color-scheme" content="light dark">
 <link rel="canonical" href="https://maxfechner84.github.io/market-clock-news/markets/nyse.html">
@@ -165,7 +165,7 @@ p { margin: 0; }
     <table><thead><tr><th>Date</th><th>Holiday</th><th>Session</th></tr></thead><tbody id="rows"><tr data-d="2026-11-26"><td>Thursday 26 November 2026</td><td>Thanksgiving</td><td>Closed</td></tr><tr data-d="2026-11-27"><td>Friday 27 November 2026</td><td>Day after Thanksgiving</td><td>Closes at 13:00</td></tr><tr data-d="2026-12-24"><td>Thursday 24 December 2026</td><td>Christmas Eve</td><td>Closes at 13:00</td></tr><tr data-d="2026-12-25"><td>Friday 25 December 2026</td><td>Christmas Day</td><td>Closed</td></tr><tr data-d="2027-01-01"><td>Friday 1 January 2027</td><td>New Year&#x27;s Day</td><td>Closed</td></tr><tr data-d="2027-01-18"><td>Monday 18 January 2027</td><td>Martin Luther King Jr. Day</td><td>Closed</td></tr><tr data-d="2027-02-15"><td>Monday 15 February 2027</td><td>Washington&#x27;s Birthday</td><td>Closed</td></tr><tr data-d="2027-03-26"><td>Friday 26 March 2027</td><td>Good Friday</td><td>Closed</td></tr><tr data-d="2027-05-31"><td>Monday 31 May 2027</td><td>Memorial Day</td><td>Closed</td></tr><tr data-d="2027-06-18"><td>Friday 18 June 2027</td><td>Juneteenth (observed)</td><td>Closed</td></tr><tr data-d="2027-07-05"><td>Monday 5 July 2027</td><td>Independence Day (observed)</td><td>Closed</td></tr><tr data-d="2027-09-06"><td>Monday 6 September 2027</td><td>Labor Day</td><td>Closed</td></tr><tr data-d="2027-11-25"><td>Thursday 25 November 2027</td><td>Thanksgiving</td><td>Closed</td></tr><tr data-d="2027-11-26"><td>Friday 26 November 2027</td><td>Day after Thanksgiving</td><td>Closes at 13:00</td></tr><tr data-d="2027-12-24"><td>Friday 24 December 2027</td><td>Christmas Day (observed)</td><td>Closed</td></tr></tbody></table>
   </div>
   <div class="card pad"><h3>What time does the NYSE open?</h3><p>At 09:30 local time (America/New York). The time in your own time zone is shown above.</p><h3>Is it open at weekends?</h3><p>No, it is closed on Saturdays and Sundays.</p><h3>Do the hours change with daylight saving time?</h3><p>The local hours stay the same, but the gap to your time can change when either country changes its clocks. This page adjusts automatically.</p></div>
-  <div class="crumbs"><a href="../">Live market clock →</a></div>
+  <div class="crumbs"><a href="../">NextBell: live market timer →</a></div>
 </div>
 <script>
 (function () {
